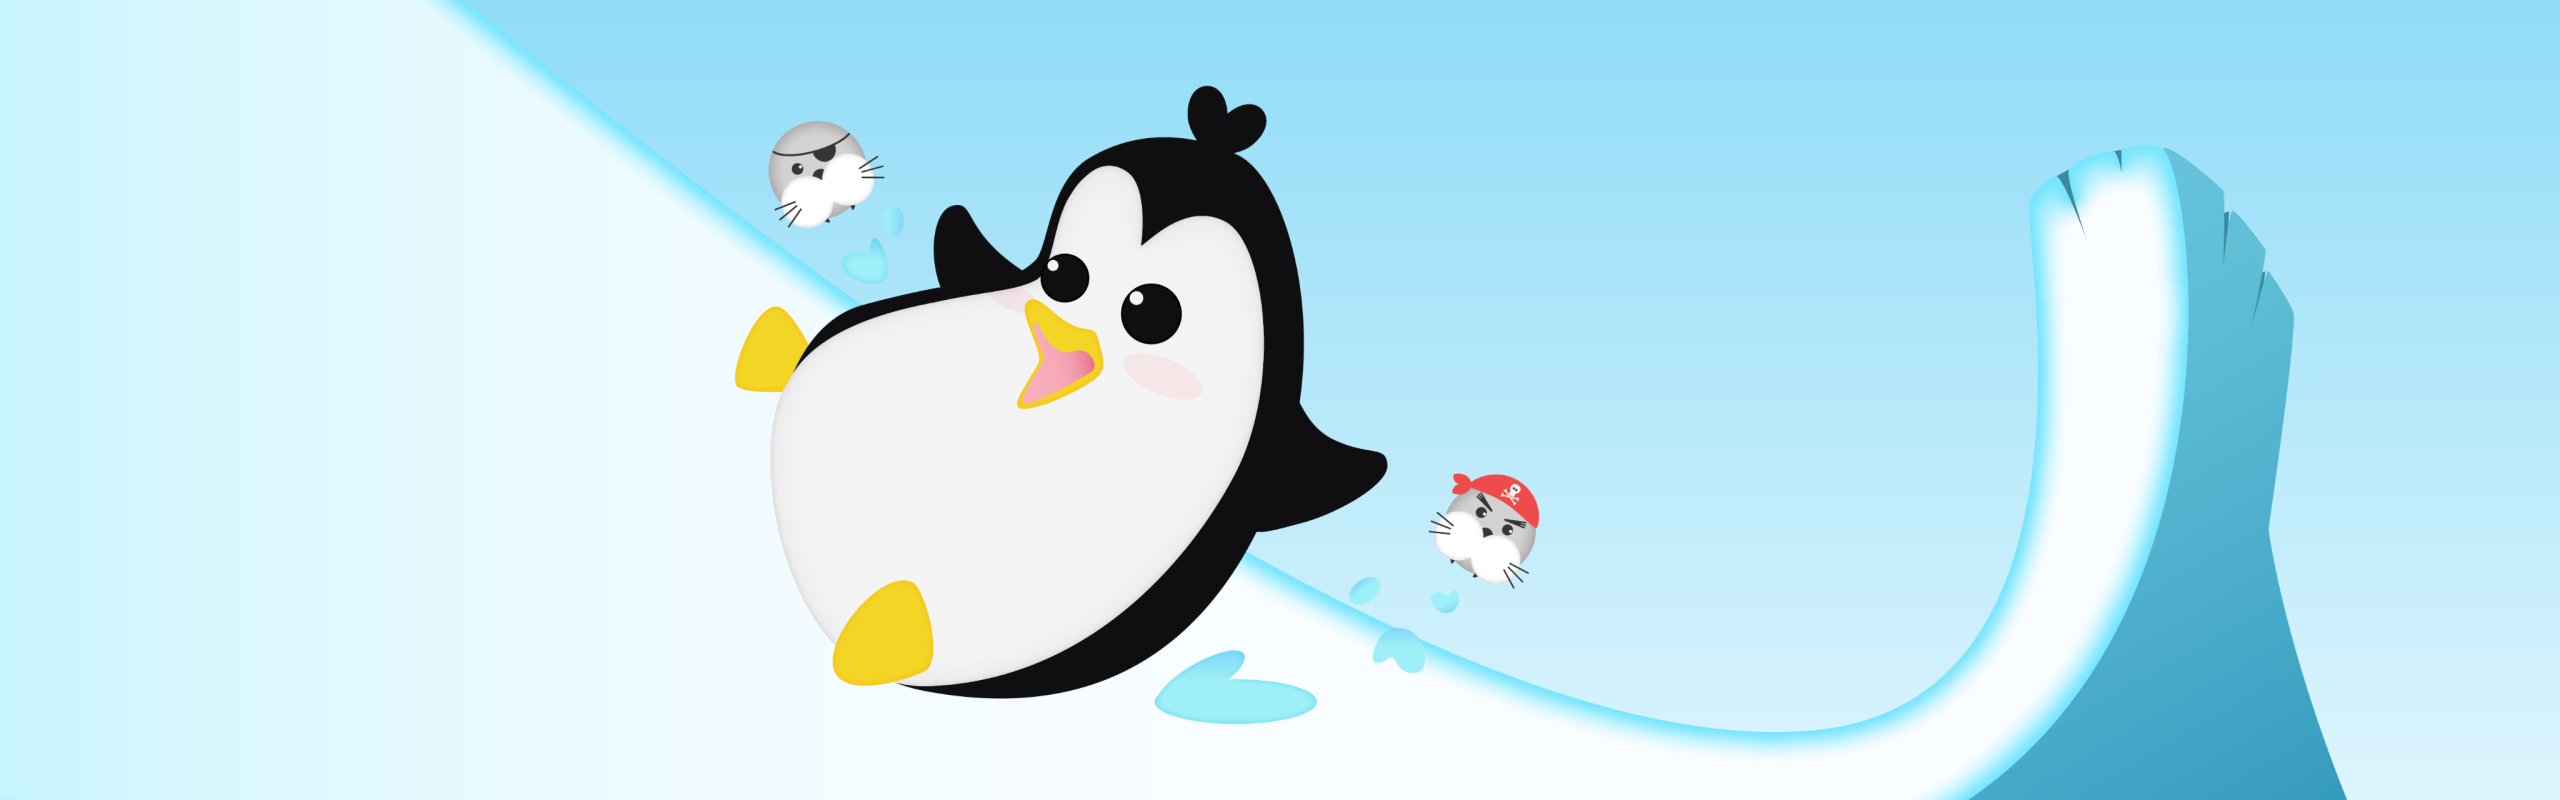
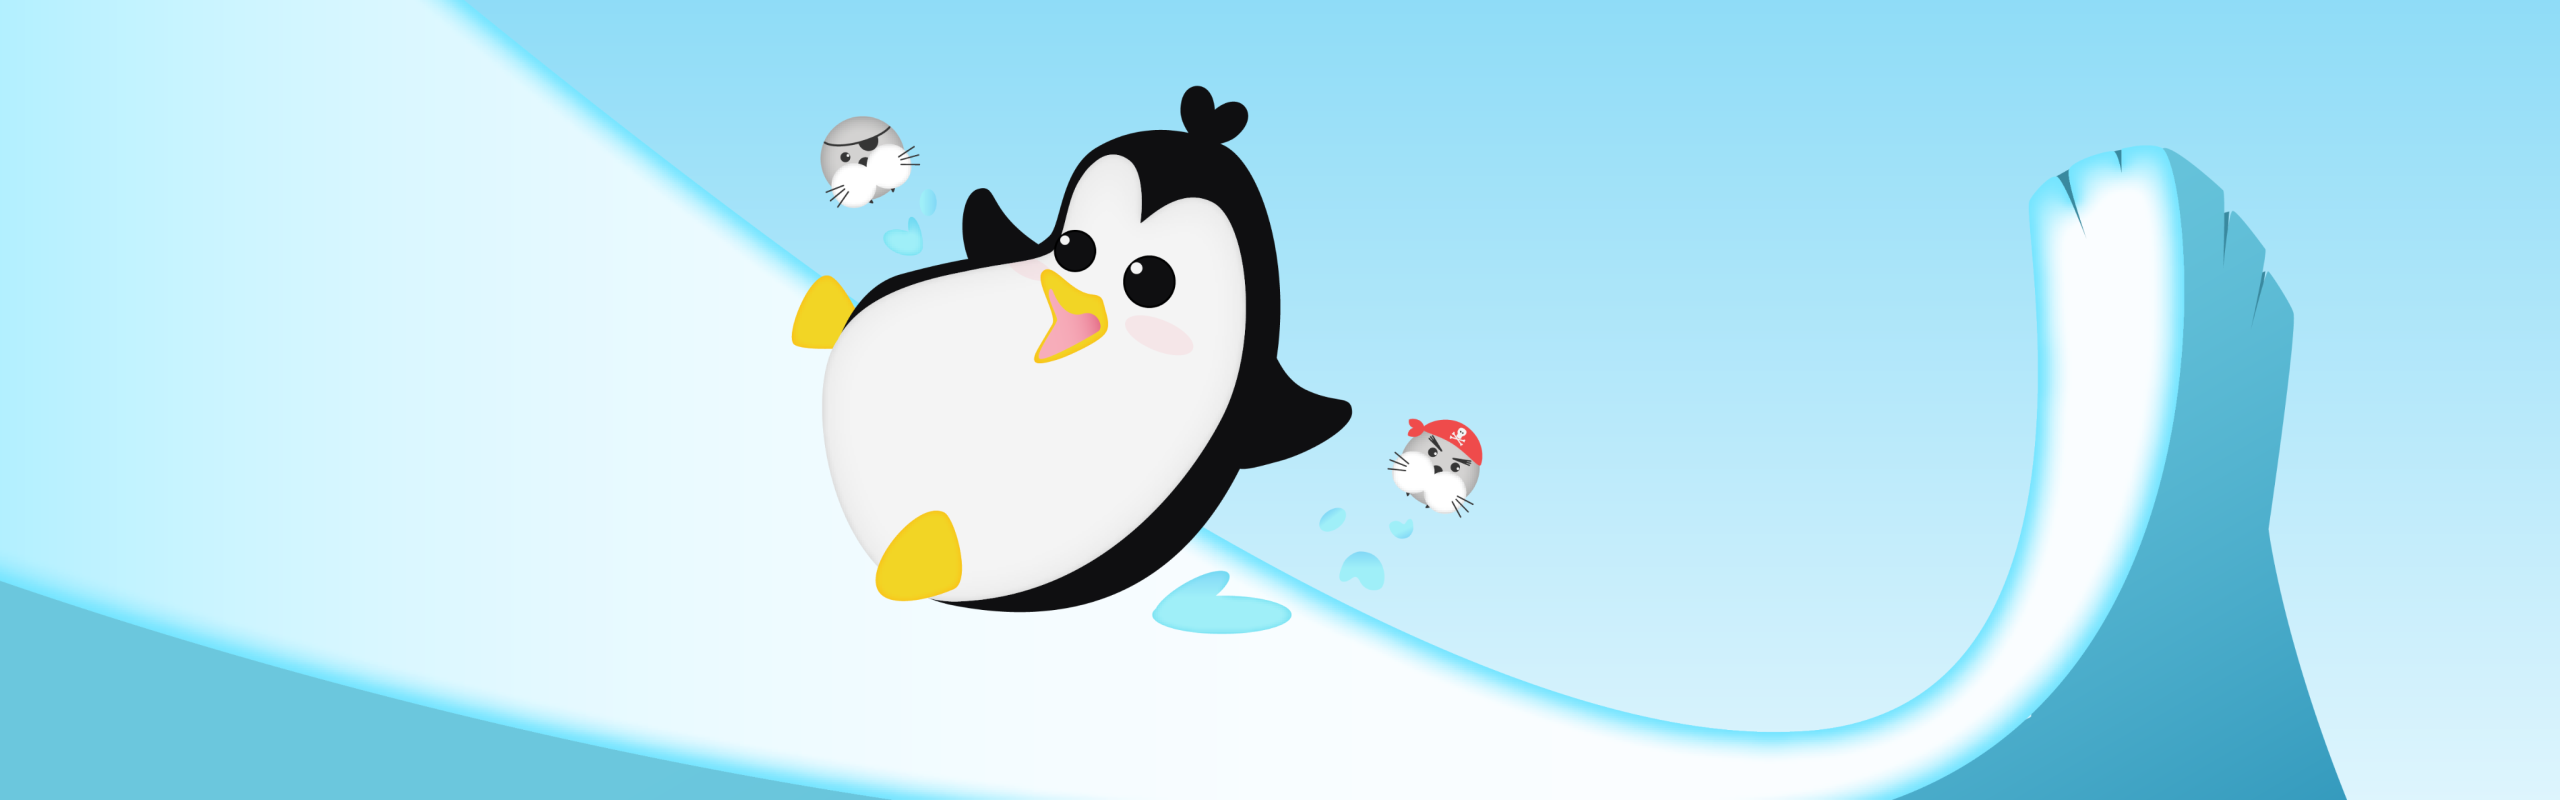
top image

diff --git a/charm.html b/charm.html
@@ -39,17 +39,28 @@
             </nav>
         
             <header class="page-header">
-                <img src="./img/charm/charm_top.png" class="maincontent-img">
+                <img src="./img/charm/charm_top2.png" class="maincontent-img">
             </header>
 
             <!--header ended-->
                 <div class="container-xl">
-                    
                     <div class="work-content">
                         <div class="row align-items-center justify-content-center">
                             <div class="col-md-12">
                                 <div class="half-box">
                                     <div class="row" style="margin-top: 100px;">
+                                        <div Class="project_title">CHARM CREDIT CARD</div>
+                                    </div>
+                                </div>
+                            </div>
+                        </div>
+                    </div>
+        
+                    <div class="work-content">
+                        <div class="row align-items-center justify-content-center">
+                            <div class="col-md-12">
+                                <div class="half-box">
+                                    <div class="row" style="margin-top: 0px;">
                                         <div class="col-sm-6 col-md-6 col-lg-6">
                                                 <div Class="item">Overview</div>
                                         </div>

diff --git a/achildsdelight.html b/achildsdelight.html
@@ -39,7 +39,7 @@
             </nav>
             
             <header class="page-header">
-                <img src="./img/delight_mockup/delight_top.png" class="maincontent-img">
+                <img src="./img/delight_mockup/delight_top2.png" class="maincontent-img">
             </header>
             <!--header ended-->
                 <div class="container-xl">
@@ -48,6 +48,18 @@
                             <div class="col-md-12">
                                 <div class="half-box">
                                     <div class="row" style="margin-top: 100px;">
+                                        <div Class="project_title">A CHILD'S DELIGHT</div>
+                                    </div>
+                                </div>
+                            </div>
+                        </div>
+                    </div>
+        
+                    <div class="work-content">
+                        <div class="row align-items-center justify-content-center">
+                            <div class="col-md-12">
+                                <div class="half-box">
+                                    <div class="row" style="margin-top: 0px;">
                                         <div class="col-sm-6 col-md-6 col-lg-6">
                                                 <div Class="item">Overview</div>
                                         </div>

diff --git a/news.html b/news.html
@@ -39,7 +39,7 @@
             </nav>
         
             <header class="page-header">
-                <img src="./img/news/news_top.png" class="maincontent-img">
+                <img src="./img/news/abd_top2.png" class="maincontent-img">
             </header>
             <!--header ended-->
                 <div class="container-xl">
@@ -48,6 +48,18 @@
                             <div class="col-md-12">
                                 <div class="half-box">
                                     <div class="row" style="margin-top: 100px;">
+                                        <div Class="project_title">abc NEWS</div>
+                                    </div>
+                                </div>
+                            </div>
+                        </div>
+                    </div>
+
+                    <div class="work-content">
+                        <div class="row align-items-center justify-content-center">
+                            <div class="col-md-12">
+                                <div class="half-box">
+                                    <div class="row" style="margin-top: 0px;">
                                         <div class="col-sm-6 col-md-6 col-lg-6">
                                                 <div Class="item">Overview</div>
                                         </div>

diff --git a/plastic.html b/plastic.html
@@ -39,8 +39,7 @@
     </nav>
 
     <header class="page-header">
-        <img src="./img/plastic/plastic_top.png">
-        <div class="project-title">How Much Plastic Enters the Oceans?</div>
+        <img src="./img/plastic/plastic_top2.png" class="maincontent-img">
     </header>
     <!--header ended-->
 
@@ -50,6 +49,18 @@
                     <div class="col-md-12">
                         <div class="half-box">
                             <div class="row" style="margin-top: 100px;">
+                                <div Class="project_title">HOW MUCH PLASTIC ENTERS THE OCEANS?</div>
+                            </div>
+                        </div>
+                    </div>
+                </div>
+            </div>
+
+            <div class="work-content">
+                <div class="row align-items-center justify-content-center">
+                    <div class="col-md-12">
+                        <div class="half-box">
+                            <div class="row" style="margin-top: 0px;">
                                 <div class="col-sm-6 col-md-6 col-lg-6">
                                         <div Class="item">Overview</div>
                                 </div>

diff --git a/saarland.html b/saarland.html
@@ -39,7 +39,7 @@
     </nav>
     
     <header class="page-header">
-        <img src="./img/saarland/saarland_top.png" class="maincontent-img">
+        <img src="./img/saarland/saarland_top2.png" class="maincontent-img">
     </header>
     <!--header ended-->
     
@@ -49,6 +49,18 @@
                     <div class="col-md-12">
                         <div class="half-box">
                             <div class="row" style="margin-top: 100px;">
+                                <div Class="project_title">SAARLAND MUSEUM</div>
+                            </div>
+                        </div>
+                    </div>
+                </div>
+            </div>
+
+            <div class="work-content">
+                <div class="row align-items-center justify-content-center">
+                    <div class="col-md-12">
+                        <div class="half-box">
+                            <div class="row" style="margin-top: 0px;">
                                 <div class="col-sm-6 col-md-6 col-lg-6">
                                         <div Class="item">Overview</div>
                                 </div>
